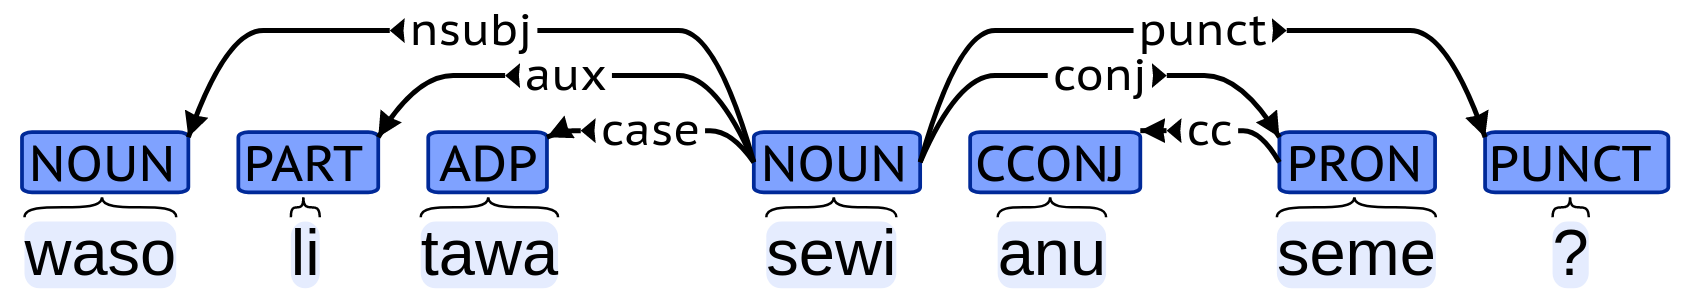
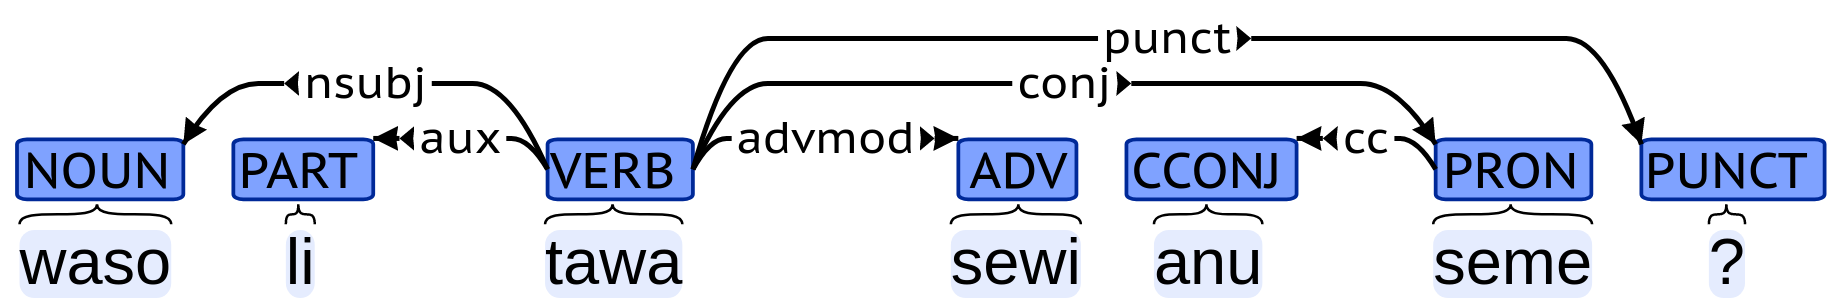
add

Changed region(s): [[0.0, 0.0614, 1.0, 1.0], [0.3081, 0.1536, 0.3389, 0.1843]]

diff --git a/image/vis.html b/image/vis.html
@@ -170,6 +170,16 @@
 
 <pre><code class="language-conllu">
 0	ROOT					0	root
+1	kasi		NOUN			3	nsubj
+2	li		PART			3	aux
+3	toki		VERB			0	root
+4	e		PART			5	aux
+5	ala		NOUN			3	obj
+6	.		PUNCT			3	punct
+</code></pre>
+
+<pre><code class="language-conllu">
+0	ROOT					0	root
 1	akesi		NOUN			3	nsubj
 2	li		PART			3	aux
 3	suwi		ADJ			0	root
@@ -233,13 +243,13 @@
 
 <pre><code class="language-conllu">
 0	ROOT					0	root
-1	waso		NOUN			4	nsubj
-2	li		PART			4	aux
-3	tawa		ADP			4	case
-4	sewi		NOUN			0	root
+1	waso		NOUN			3	nsubj
+2	li		PART			3	aux
+3	tawa		VERB			0	root
+4	sewi		ADV			3	advmod
 5	anu		CCONJ			6	cc
-6	seme		PRON			4	conj
-7	?		PUNCT			4	punct
+6	seme		PRON			3	conj
+7	?		PUNCT			3	punct
 </code></pre>
 
 <pre><code class="language-conllu">
